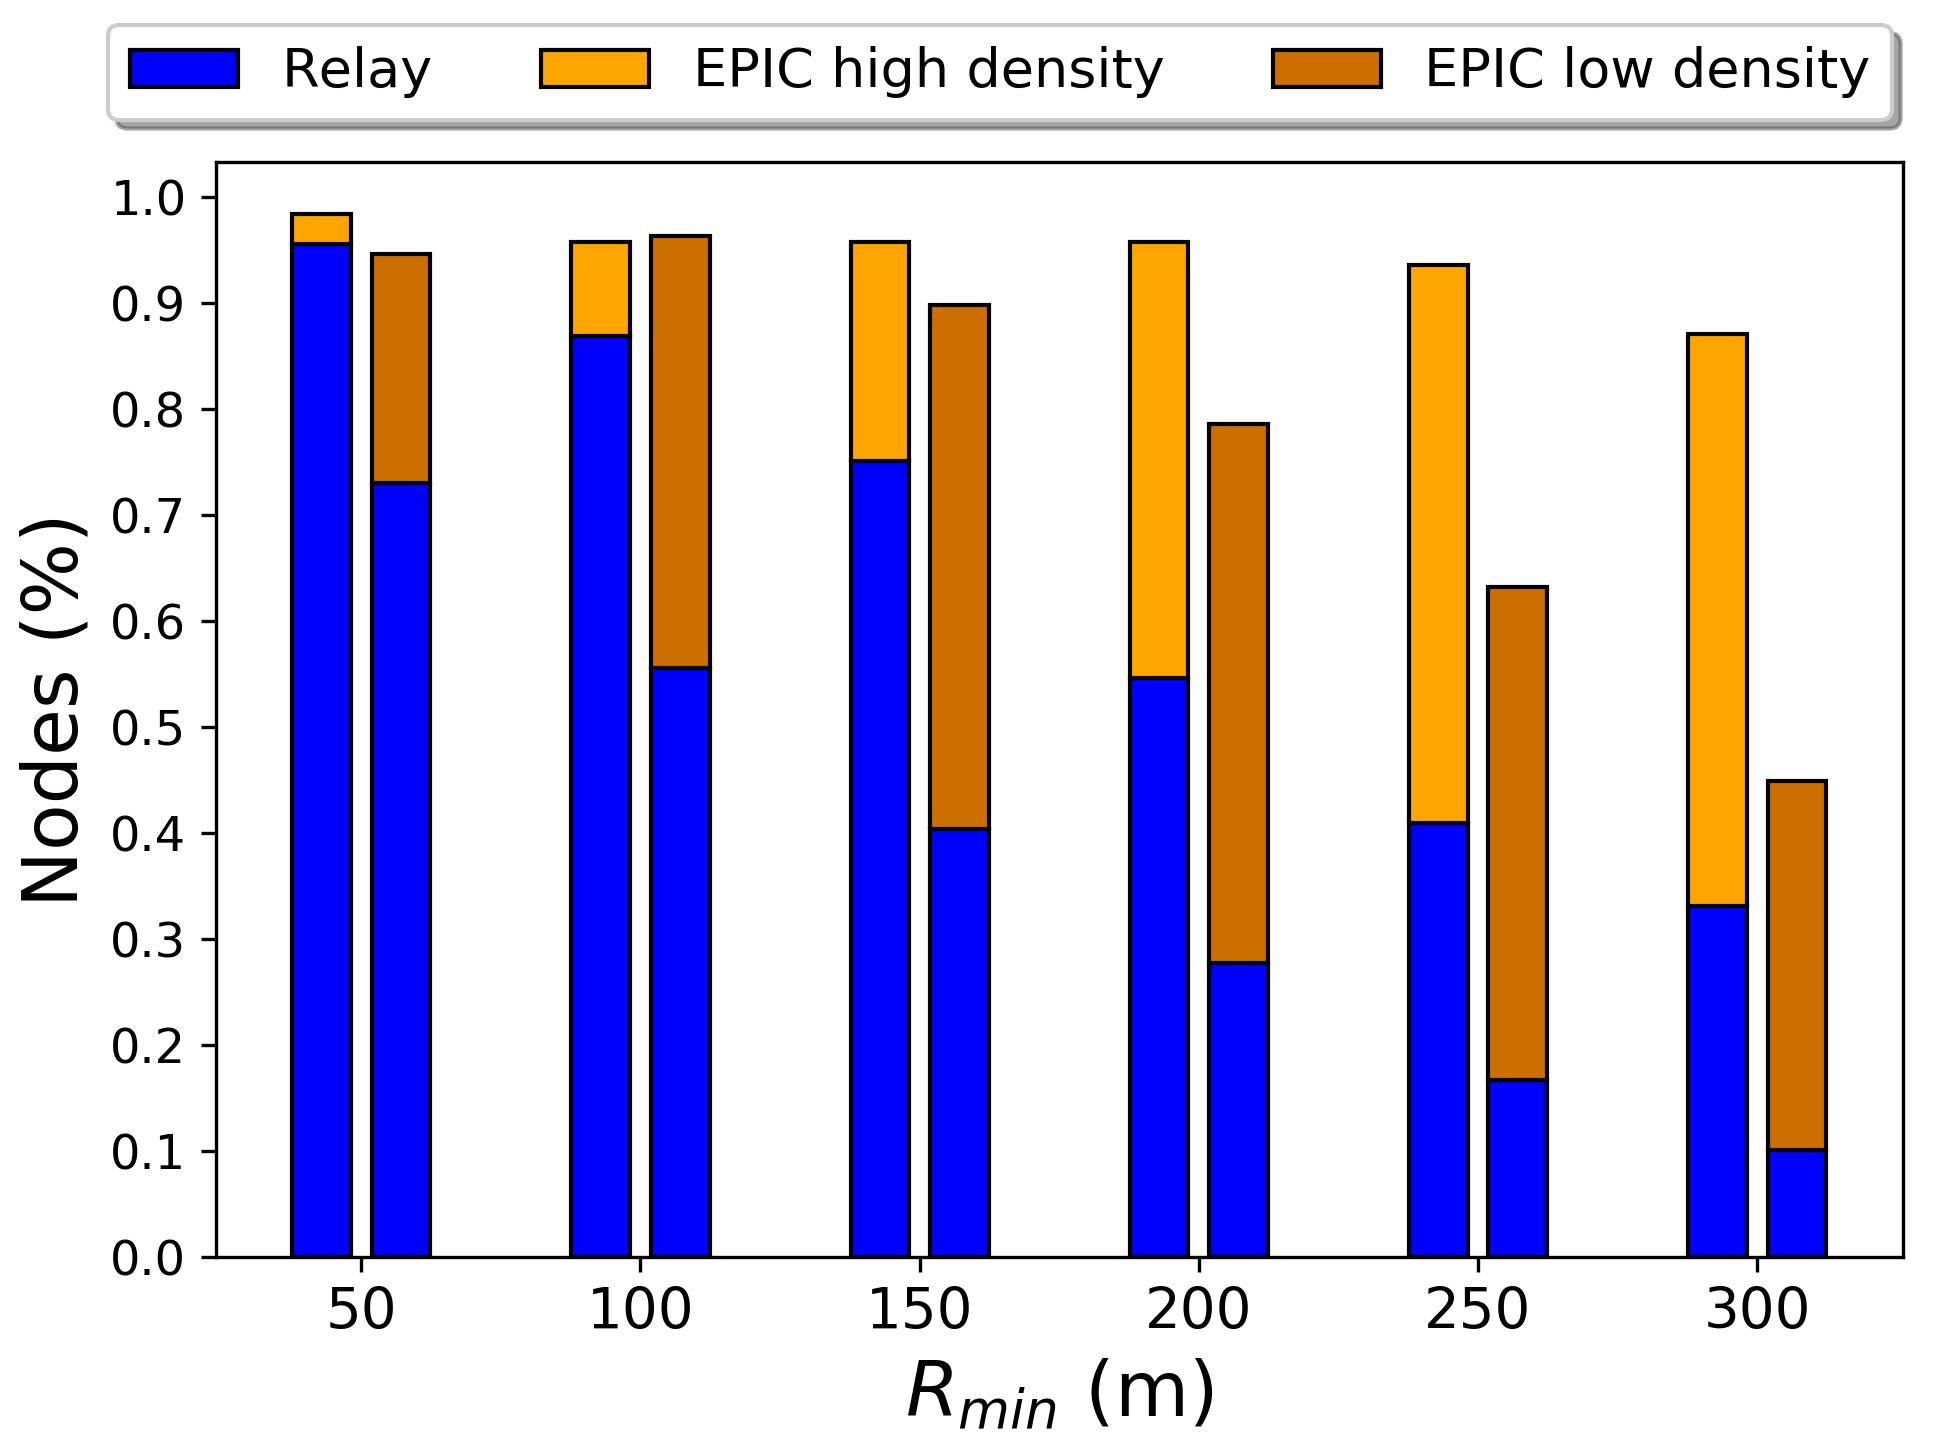
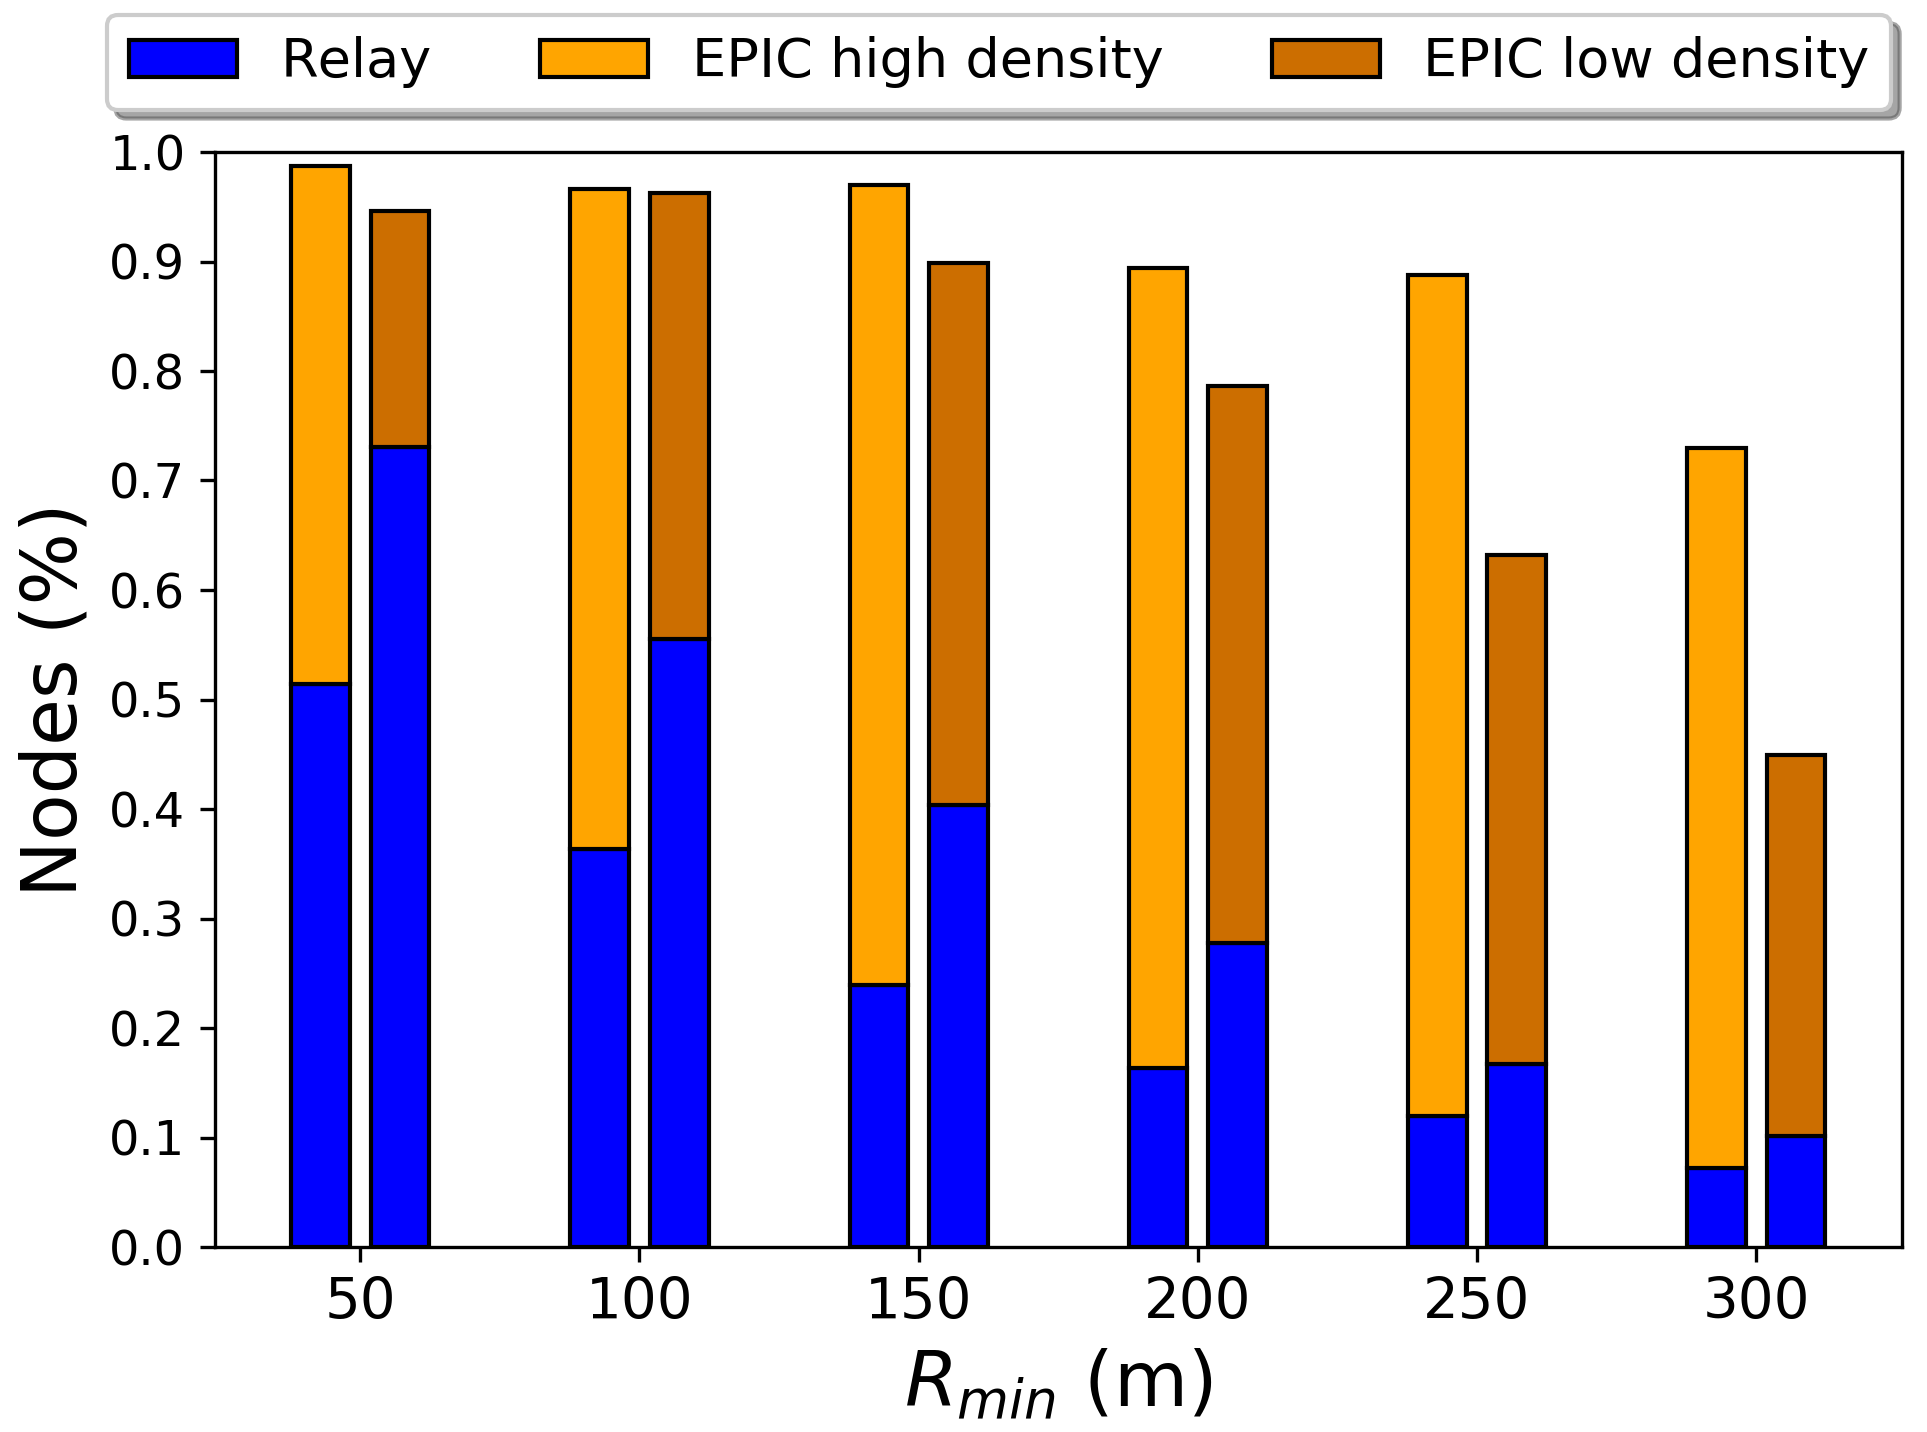
graphs with alpha

diff --git a/grafici/graph-TC-alg-rmin-comp.py b/grafici/graph-TC-alg-rmin-comp.py
@@ -16,8 +16,8 @@ N = 6
 means_frw_low_dens = np.array([73.05174563591022, 55.531483790523666, 40.39900249376558, 27.771197007481287, 16.683291770573568, 10.11533665835411]) /100
 means_recv_low_dens = np.array([96.52431421446393, 98.25748129675812, 91.67082294264337, 80.20573566084788, 64.50124688279301, 45.84632169576061])*0.98/100 - means_frw_low_dens 
 
-means_frw_high_dens = np.array([95.57512468827926, 86.88591022443896, 75.12312967581047, 54.59943890274313, 40.985037406483784, 33.07824189526184, ]) /100
-means_recv_high_dens = np.array([98.38528678304236, 95.80268079800486, 95.75592269326678, 95.80268079800499, 93.55049875311721, 87.05423940149629, ])/100 - means_frw_high_dens
+means_frw_high_dens = np.array([406, 287, 188.8, 128.8, 94.16, 57.2, ]) /(790)
+means_recv_high_dens = np.array([98.7, 96.58, 97, 89.45, 88.79, 73])/100 - means_frw_high_dens
 
 
 
@@ -62,6 +62,8 @@ plt.xlabel(r'$R_{min}$ (m)')
 plt.title('')
 plt.xticks(ind+width/2+gap/2, ('50', '100', '150', '200', '250', '300')) 
 plt.yticks(np.arange(0, 1.1, 0.1))
+plt.ylim((0.0, 1.0))
+
 #plt.legend((p3[0], p2[0], p6[0], p4[0]), ('Relayers', 'Reached', r'Probabilistic $P=\widehat{P}$', r'Probabilistic $P=0.96$'), 
 #	loc='upper center', bbox_to_anchor=(0.5, -0.08),
 #    fancybox=True, shadow=True, ncol=5)

diff --git a/grafici/graph-TC-comparison.py b/grafici/graph-TC-comparison.py
@@ -57,8 +57,8 @@ N = 3
 #means_frw_low = (355.48/790, 143.53/220, 155.61/433)
 
 
-means_recv = (0.9917-(355.48/790), 0.9463-(222.75/436), 0.9547-(118.63/600))
-means_frw = (305.71/787, 222.75/436, 118.63/600)
+means_recv = (0.95-(189/790), 0.9463-(181.9/436), 0.9547-(118.63/600))
+means_frw = (189/790, 181.9/436, 118.63/600)
 
 #means_frw_low = (133.8/790, 72.78/436, 18.86/600)
 #means_low_prob = (0.3745-means_frw_low[0], 0.366- means_frw_low[1], 0.1552- means_frw_low[2])
@@ -113,6 +113,7 @@ plt.ylabel('Nodes (%)')
 plt.title('')
 plt.xticks(ind+width+gap, ('Luxembourg', 'Cologne', 'New York'))
 plt.yticks(np.arange(0, 1.1, 0.1))
+plt.ylim((0.0, 1.0))
 plt.legend((p3[0], p2[0], p4[0], p6[0]), ('Relay', 'EPIC', r'Probabilistic $P=0.96$', r'Probabilistic $P=\widehat{P}$'), 
 	loc='upper center', bbox_to_anchor=(0.5, 1.13),
     fancybox=True, shadow=True, ncol=5)

diff --git a/grafici/graph-TC-emitters.py b/grafici/graph-TC-emitters.py
@@ -71,7 +71,7 @@ recv = np.asarray((0.9323, 0.934, 0.9467, 0.9365, 0.9432, 0.9494)) - frw
 
 cnum_lux = 790  #cars number lux
 x_lux = np.asarray((100,10,5,1))
-frw_lux = np.asarray((330.136, 345.506, 356.647, 384.708)) / cnum_lux
+frw_lux = np.asarray((330.136, 345.506, 356.647, 384.708))*0.55 / cnum_lux
 recv_lux = np.asarray((0.9323, 0.934, 0.9467, 0.9494)) - frw_lux
 x_lux, frw_lux, recv_lux = np.flip(x_lux), np.flip(frw_lux), np.flip(recv_lux)
 
@@ -130,6 +130,7 @@ plt.ylabel('Nodes (%)')
 plt.title('Luxembourg')
 plt.xticks(ind, ('1', '5', '10', 'Unlimited'))
 plt.yticks(np.arange(0, 1.1, 0.1))
+plt.ylim((0.0, 1.0))
 fig.text(0.5, 0.019, 'Emitters Length Limit', ha='center', va='center')
 ax1.legend((p1[0], p2[0]), ('Relay', 'EPIC'), loc='lower left', fancybox=True)
 
